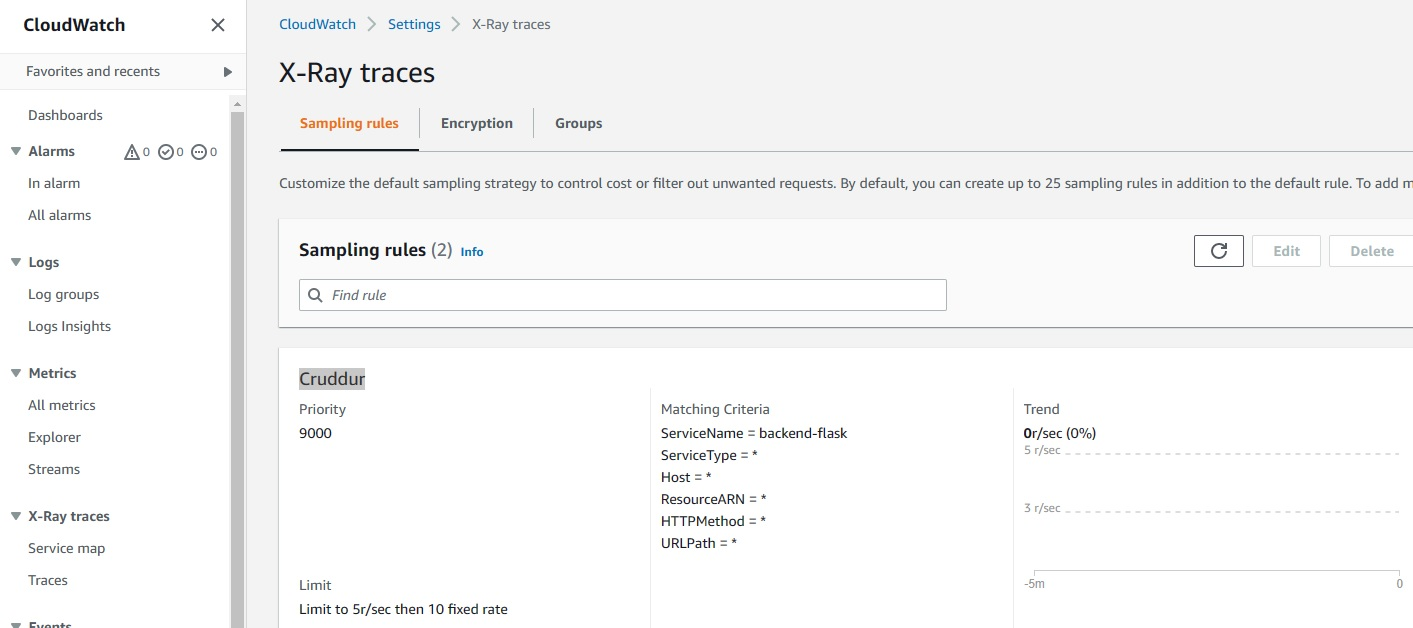
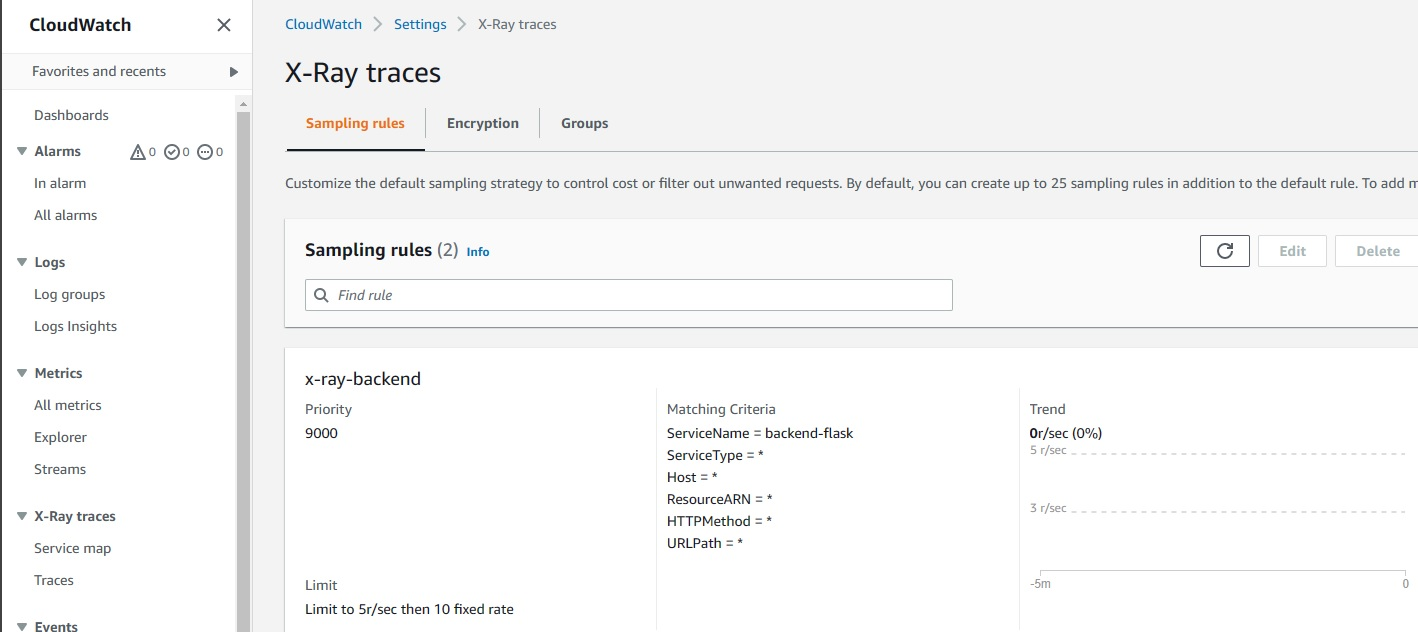
start implementation segment and subsegment traces

diff --git a/backend-flask/services/notifications_activities.py b/backend-flask/services/notifications_activities.py
@@ -1,25 +1,27 @@
 from datetime import datetime, timedelta, timezone
+from aws_xray_sdk.core import xray_recorder
 class NotificationsActivities:
   def run():
-    now = datetime.now(timezone.utc).astimezone()
-    results = [{
-      'uuid': '68f126b0-1ceb-4a33-88be-d90fa7109eee',
-      'handle':  'Donal Duck',
-      'message': 'Cloud is Future!',
-      'created_at': (now - timedelta(days=2)).isoformat(),
-      'expires_at': (now + timedelta(days=5)).isoformat(),
-      'likes_count': 5,
-      'replies_count': 1,
-      'reposts_count': 0,
-      'replies': [{
-        'uuid': '26e12864-1c26-5c3a-9658-97a10f8fea67',
-        'reply_to_activity_uuid': '68f126b0-1ceb-4a33-88be-d90fa7109eee',
-        'handle':  'Worf',
-        'message': 'This post has no honor!',
-        'likes_count': 0,
-        'replies_count': 0,
+    with xray_recorder.in_segment('notifications_xray') as segment:
+      now = datetime.now(timezone.utc).astimezone()
+      results = [{
+        'uuid': '68f126b0-1ceb-4a33-88be-d90fa7109eee',
+        'handle':  'Donal Duck',
+        'message': 'Cloud is Future!',
+        'created_at': (now - timedelta(days=2)).isoformat(),
+        'expires_at': (now + timedelta(days=5)).isoformat(),
+        'likes_count': 5,
+        'replies_count': 1,
         'reposts_count': 0,
-        'created_at': (now - timedelta(days=2)).isoformat()
+        'replies': [{
+          'uuid': '26e12864-1c26-5c3a-9658-97a10f8fea67',
+          'reply_to_activity_uuid': '68f126b0-1ceb-4a33-88be-d90fa7109eee',
+          'handle':  'Worf',
+          'message': 'This post has no honor!',
+          'likes_count': 0,
+          'replies_count': 0,
+          'reposts_count': 0,
+          'created_at': (now - timedelta(days=2)).isoformat()
       }],
     }
     ]

diff --git a/journal/week2.md b/journal/week2.md
@@ -142,6 +142,58 @@ XRayMiddleware(app, xray_recorder)
 ```
 ## Add X-Ray Daemon for Docker Compose
 
+### Check your CLI credentials for AWS
+
+*Don't use AWS_SESSION_KEY, X-Ray can't sent the data*
+
+> You need to create an `Access Key` in the AWS console and check your credentials
+
+```sh
+env | grep AWS
+...
+gp env | grep AWS # 
+```
+
+*Credentials in your SDE should be the same*
+
+> Create group for X-Ray by CLI
+
+```sh
+aws xray create-group \
+   --group-name "x-ray-backend" \
+   --filter-expression "service(\"backend-flask\") {fault OR error}"
+```
+
+You should get json answer like this
+
+```sh
+{
+    "Group": {
+        "GroupName": "Cruddur",
+        "GroupARN": "arn:aws:xray:eu-central-1:446171166981:group/Cruddur/GWSZYWM5HTHXLCB76QTGZ2LKHDBI2NFPYU2QN4CV2XZO43GHUQKA",
+        "FilterExpression": "service(\"backend-flask\")",
+        "InsightsConfiguration": {
+            "InsightsEnabled": false,
+            "NotificationsEnabled": false
+        }
+    }
+}
+```
+
+> In AWS Cloudwatch X-Ray console should appear new group
+
+![X-Ray Group](assets/x-ray-group.jpg)
+
+> Next create rule for collecting traces
+
+```sh
+aws xray create-sampling-rule --cli-input-json file://aws/json/xray.json
+```
+
+You should get json answer and rule appeared in console
+
+![X-Ray Rule](assets/x-ray-rule.jpg)
+
 (Optional) We can add our x-ray daemon to cli sde
 
 ```sh
@@ -171,7 +223,7 @@ AWS_XRAY_URL: "*4567-${GITPOD_WORKSPACE_ID}.${GITPOD_WORKSPACE_CLUSTER_HOST}*"
 AWS_XRAY_DAEMON_ADDRESS: "xray-daemon:2000"
 ```
 
-### Optional AWS recommendation for installatin X-Ray
+### (Optional) AWS recommendation for installatin X-Ray
 
 > Run the X-Ray daemon with a user data script (EC2 Linux)
 
@@ -205,52 +257,28 @@ CMD xray-daemon -f /var/log/xray-daemon.log &
 docker build -t xray .
 ```
 
-### Check your CLI credentials for AWS
+### Run Docker Compose and Get Traces
 
-> Check your credentials 
-
-```sh
-env | grep AWS
-```
-
-You should get same as in your AWS account env `AWS_SECRET_ACCESS_KEY', 'AWS_ACCESS_KEY_ID', 'AWS_SESSION_TOKEN'
-
-> Create group for X-Ray by CLI
+> Run `docker-compose.yml` file
 
 ```sh
-FLASK_ADDRESS="https://4567-${GITPOD_WORKSPACE_ID}.${GITPOD_WORKSPACE_CLUSTER_HOST}"
-aws xray create-group \
-   --group-name "Cruddur" \
-   --filter-expression "service(\"$FLASK_ADDRESS\") {fault OR error}"
+docker compose -f "docker-compose.yml" up -d --build
 ```
 
-You should get json answer like this
+> Go to the `PORTS` tab and open `4567` in your browser, add to the end of url `/api/activities/home` and generate some data
+
+> Check your x-ray container, you should get 
 
 ```sh
-{
-    "Group": {
-        "GroupName": "Cruddur",
-        "GroupARN": "arn:aws:xray:eu-central-1:446171166981:group/Cruddur/GWSZYWM5HTHXLCB76QTGZ2LKHDBI2NFPYU2QN4CV2XZO43GHUQKA",
-        "FilterExpression": "service(\"backend-flask\")",
-        "InsightsConfiguration": {
-            "InsightsEnabled": false,
-            "NotificationsEnabled": false
-        }
-    }
-}
+2023-03-09T12:45:08Z [Info] HTTP Proxy server using X-Ray Endpoint : https://xray.eu-central-1.amazonaws.com
+2023-03-09T12:45:08Z [Info] Starting proxy http server on 0.0.0.0:2000
+2023-03-09T12:45:21Z [Info] Successfully sent batch of 1 segments (0.073 seconds)
+2023-03-09T12:45:22Z [Info] Successfully sent batch of 1 segments (0.016 seconds)
+2023-03-09T12:45:29Z [Info] Successfully sent batch of 1 segments (0.016 seconds)
+2023-03-09T12:45:30Z [Info] Successfully sent batch of 1 segments (0.014 seconds)
 ```
 
-> In AWS Cloudwatch X-Ray console should appear new group
+> Now you can see `Traces` in the AWS CloudWatch Console 
 
-![X-Ray Group](assets/x-ray-group.jpg)
-
-> Next create rule for collecting traces
-
-```sh
-aws xray create-sampling-rule --cli-input-json file://aws/json/xray.json
-```
-
-You should get json answer and rule appeared in console
-
-![X-Ray Rule](assets/x-ray-rule.jpg)
+![AWS X-Ray Traces](assets/x-ray-traces.jpg)
 
